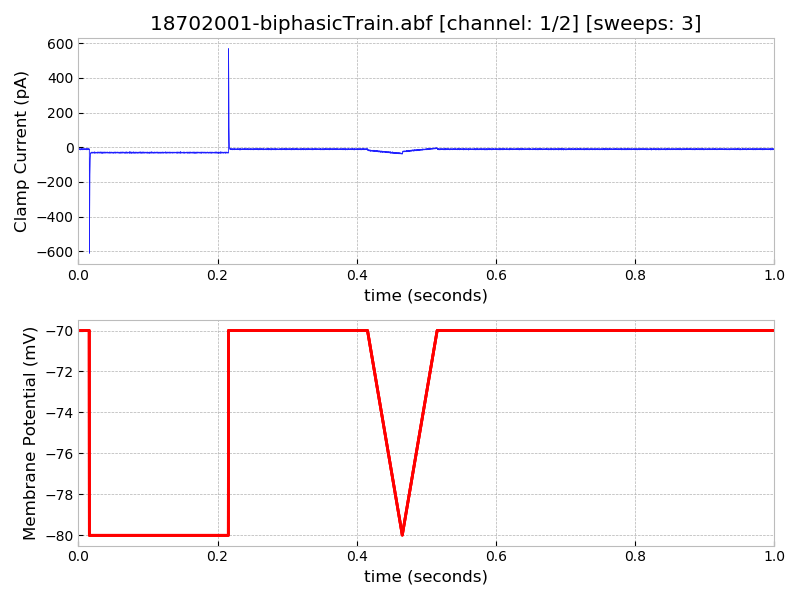
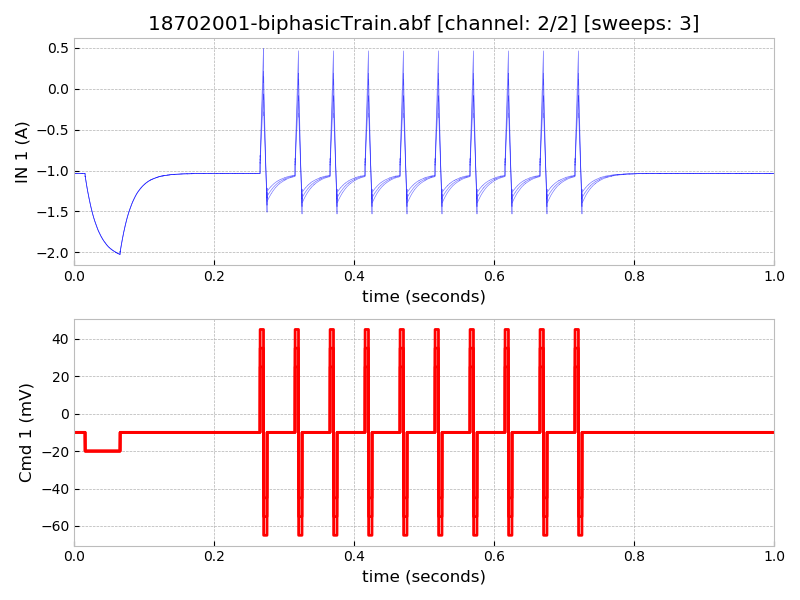
biphasic train support

diff --git a/data/headers/18702001-biphasicTrain.html b/data/headers/18702001-biphasicTrain.html
@@ -34,7 +34,7 @@
 <div class='section'>Epochs for Channel 1</div>
 <pre>
                 Ch1 EPOCH      A      B      C
-                     Type   Step   Step     7?
+                     Type   Step   Step BiPhsc
          First Level (mV)    -20    -10     25
          Delta Level (mV)      0      0     10
  First Duration (samples)   1000   4000  10000

diff --git a/src/pyabf/epochs.py b/src/pyabf/epochs.py
@@ -117,6 +117,8 @@ class Epochs:
                     values[i] = "Tri"
                 elif value == 5:
                     values[i] = "Cos"
+                elif value == 7:
+                    values[i] = "BiPhsc"
                 else:
                     values[i] = "%d?" % value
 
@@ -276,6 +278,15 @@ class Epochs:
                 chunk.fill(levelOff)
                 chunk += cos + levelDelta/2
                 
+            # fill epoch: biphasic train
+            elif self.type[epochNumber] == 7:
+                chunk.fill(levelOff)
+                for pulse in range(pulseCount):
+                    p1 = int(pulsePeriod*pulse)
+                    p3 = int(p1 + pulseWidth)
+                    p2 = int((p1+p3)/2)
+                    chunk[p1:p2] = levelOff + levelDelta
+                    chunk[p2:p3] = levelOff - levelDelta
 
             else:
                 # unsupported epoch

diff --git a/dev/python/2018-07-10 epochs.py b/dev/python/2018-07-10 epochs.py
@@ -11,7 +11,7 @@ COLORBLIND_COLORS = ['#377eb8', '#ff7f00', '#4daf4a', '#f781bf',
 
 if __name__ == "__main__":
 
-    abf = pyabf.ABF(PATH_DATA+"/18702001-pulseTrain.abf")
+    abf = pyabf.ABF(PATH_DATA+"/18702001-biphasicTrain.abf")
     
     channel=abf.channelCount-1
     

diff --git a/data/headers/18702001-biphasicTrain.md b/data/headers/18702001-biphasicTrain.md
@@ -77,7 +77,7 @@
 
 ```
                 Ch1 EPOCH      A      B      C
-                     Type   Step   Step     7?
+                     Type   Step   Step BiPhsc
          First Level (mV)    -20    -10     25
          Delta Level (mV)      0      0     10
  First Duration (samples)   1000   4000  10000
